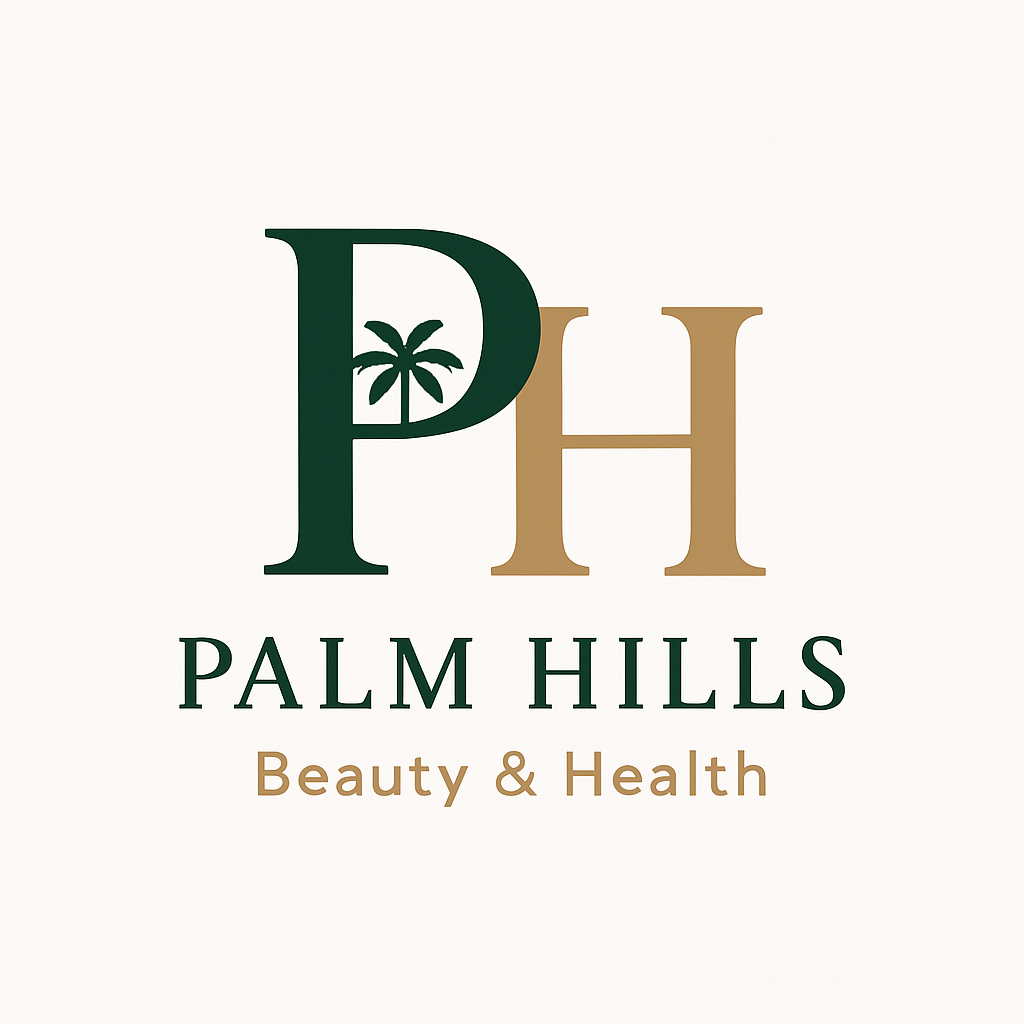
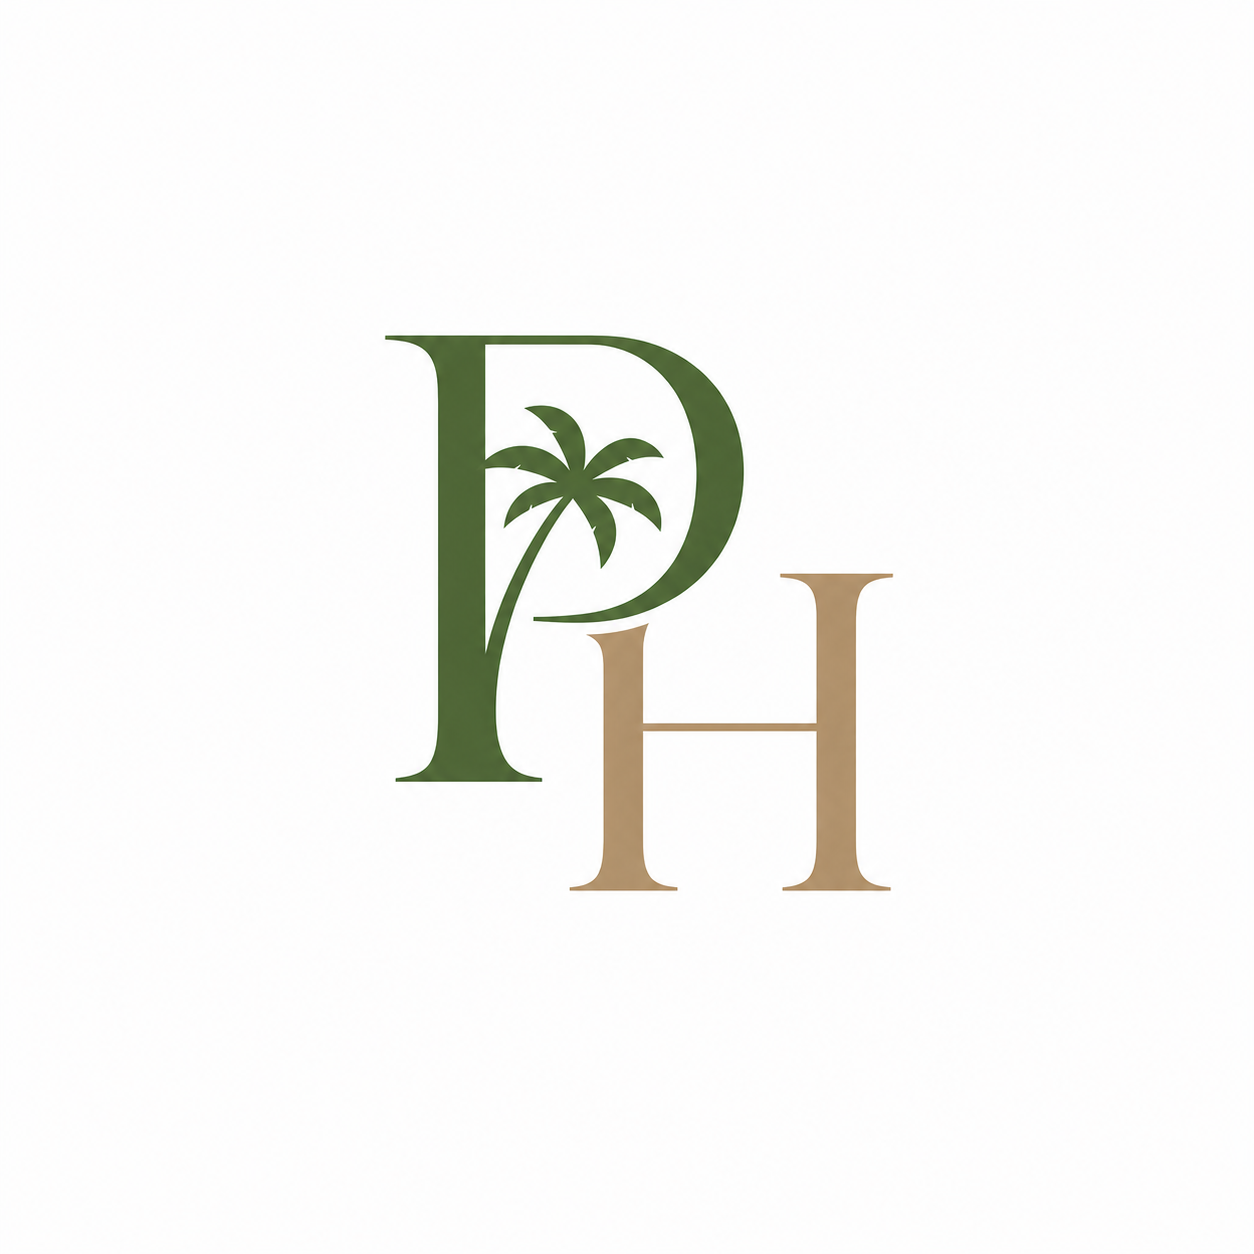
feat: update primary color and related theme variables to #4a6741

Changed region(s): [[0.1562, 0.2188, 0.75, 0.7812], [0.7812, 0.625, 0.8438, 0.7188]]

diff --git a/app/globals.css b/app/globals.css
@@ -10,10 +10,10 @@
   --card-foreground: #1a1a18;
   --popover: #ffffff;
   --popover-foreground: #1a1a18;
-  --primary: #3a5a1a;
+  --primary: #4a6741;
   --primary-foreground: #ffffff;
   --secondary: #eef5e6;
-  --secondary-foreground: #2a4210;
+  --secondary-foreground: #4a6741;
   --muted: #f0ede4;
   --muted-foreground: #888888;
   --accent: #b09060;
@@ -22,8 +22,8 @@
   --destructive-foreground: #ffffff;
   --border: #e0ddd4;
   --input: #e0ddd4;
-  --ring: #3a5a1a;
-  --chart-1: #3a5a1a;
+  --ring: #4a6741;
+  --chart-1: #4a6741;
   --chart-2: #6aaa2a;
   --chart-3: #b09060;
   --chart-4: #F59E0B;
@@ -31,12 +31,12 @@
   --radius: 0.75rem;
   --sidebar: #ffffff;
   --sidebar-foreground: #1a1a18;
-  --sidebar-primary: #3a5a1a;
+  --sidebar-primary: #4a6741;
   --sidebar-primary-foreground: #ffffff;
   --sidebar-accent: #eef5e6;
-  --sidebar-accent-foreground: #2a4210;
+  --sidebar-accent-foreground: #4a6741;
   --sidebar-border: #e0ddd4;
-  --sidebar-ring: #3a5a1a;
+  --sidebar-ring: #4a6741;
 }
 
 .dark {